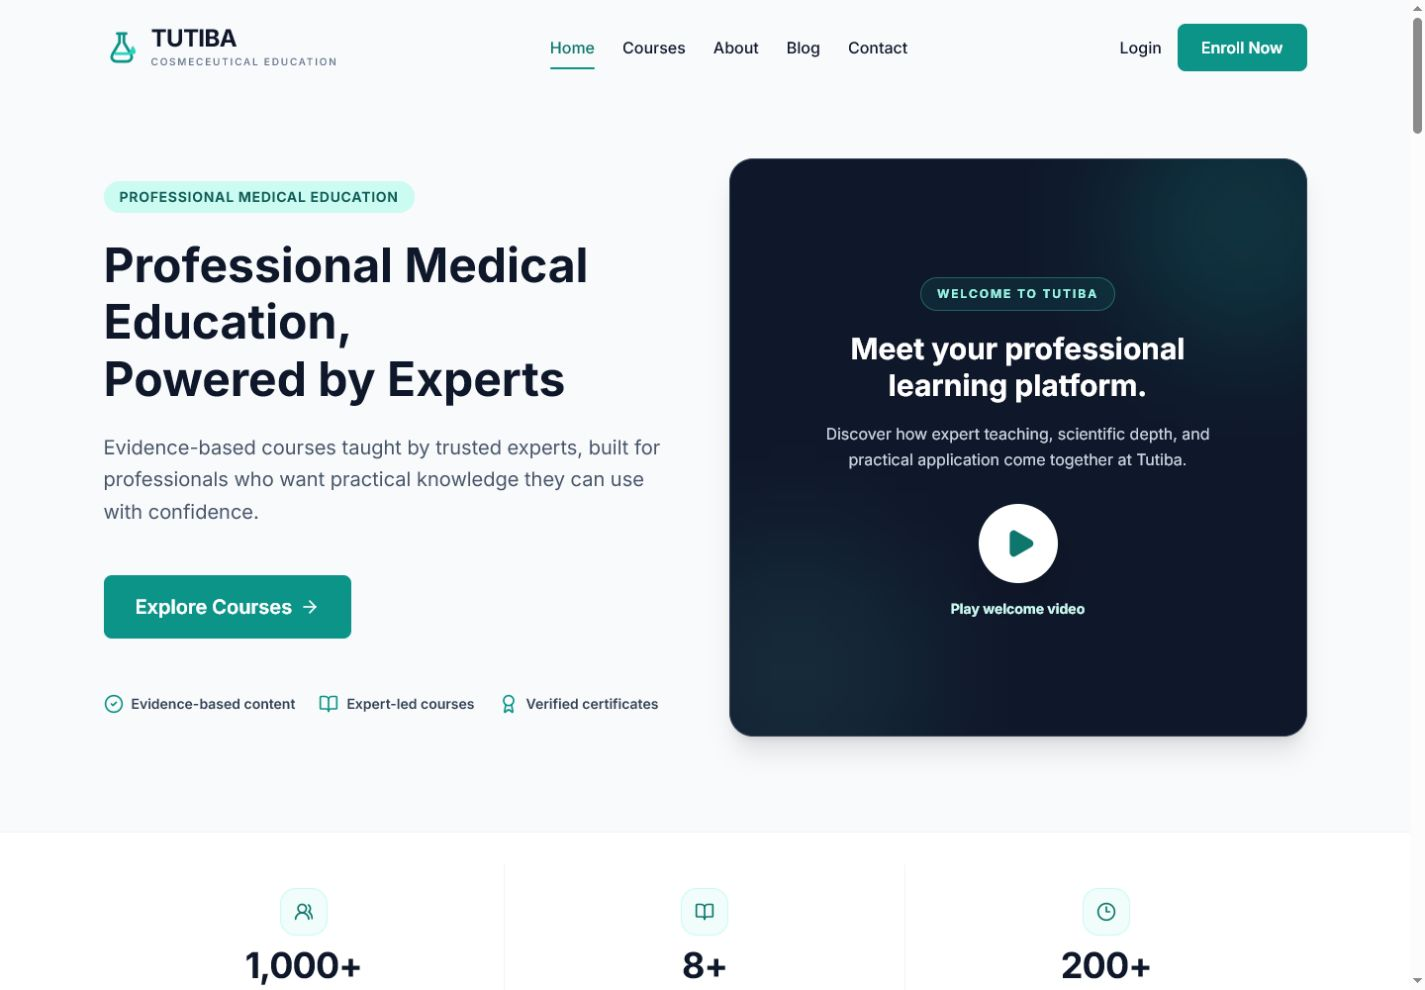
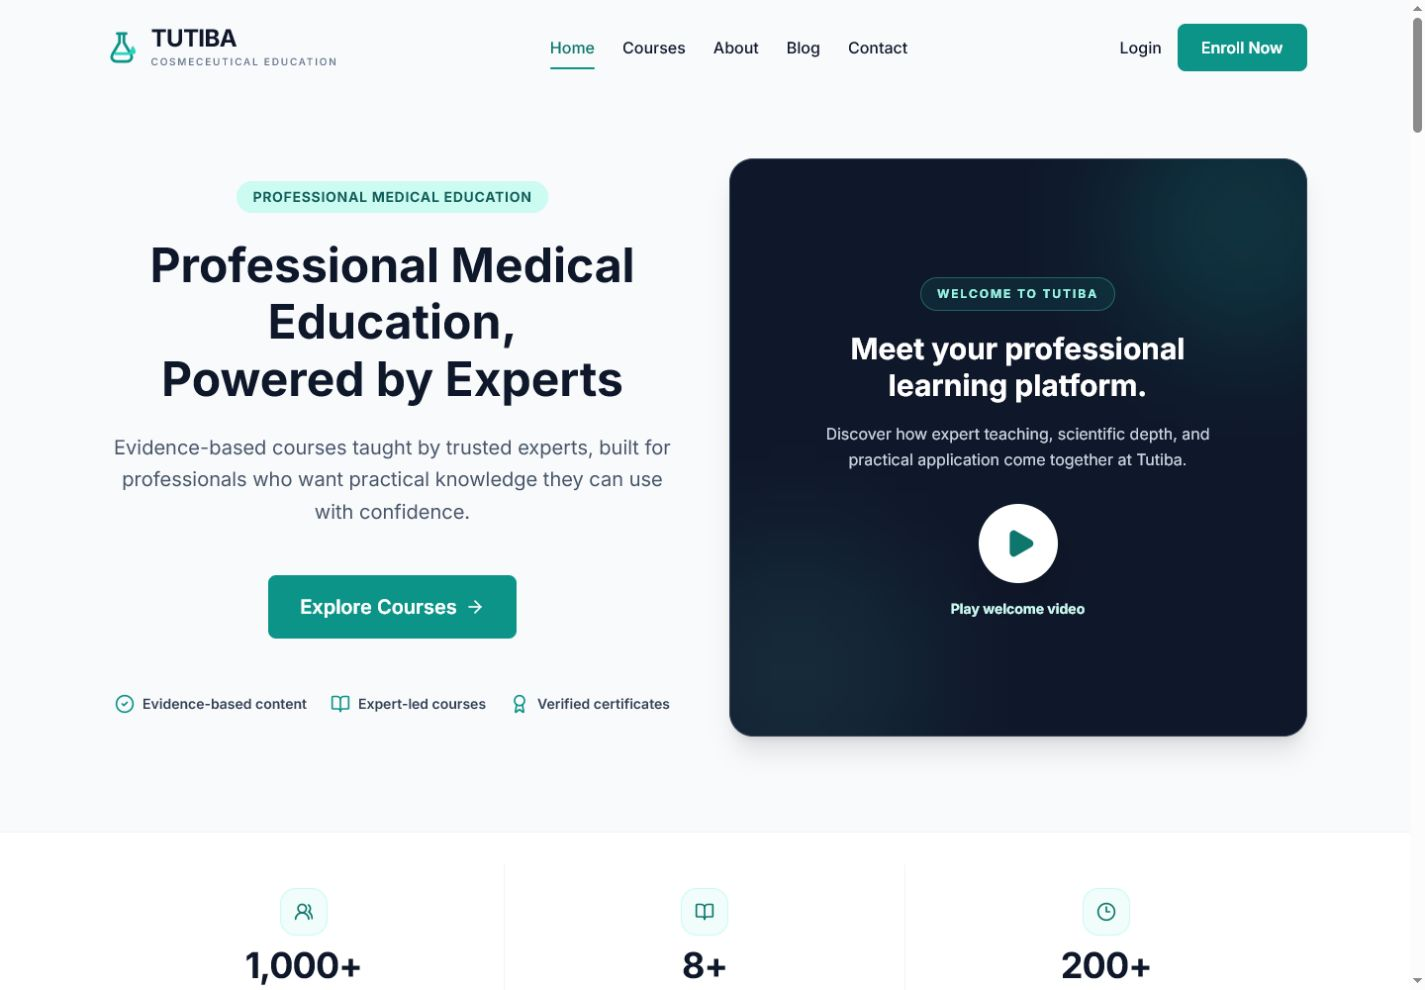
Homepage corrections round 5: full-page alignment audit

diff --git a/src/components/sections/LearningMethod.tsx b/src/components/sections/LearningMethod.tsx
@@ -29,23 +29,23 @@ export function LearningMethod() {
     <section className="bg-white py-16 md:py-24">
       <PageContainer>
         <div className="grid gap-10 lg:grid-cols-12 lg:items-start">
-          <div className="lg:col-span-4">
+          <div className="text-center lg:col-span-4">
             <p className="text-sm font-bold uppercase tracking-eyebrow text-accent-700">Featured curriculum</p>
             <h2 className="mt-3 text-3xl font-bold text-primary-900 md:text-4xl">Inside This Featured Course</h2>
             <p className="mt-5 leading-relaxed text-primary-600">Part 1 moves from skin anatomy into hyaluronic-acid science, ingredient comparison, and product-level application.</p>
-            <Button variant="secondary" className="mt-7 px-6" onClick={() => navigate(PRIMARY_DIPLOMA_PATH)}>
+            <Button variant="secondary" className="mt-7 w-full px-6" onClick={() => navigate(PRIMARY_DIPLOMA_PATH)}>
               {PRIMARY_DIPLOMA_CTA} <ArrowRight className="h-4 w-4" aria-hidden="true" />
             </Button>
           </div>
 
           <div className="grid gap-5 md:grid-cols-3 lg:col-span-8">
             {curriculum.map(({ title, description, icon: Icon }, index) => (
-              <article key={title} className="flex h-full flex-col rounded-xl border border-primary-100 bg-primary-50 p-6 md:p-7">
-                <div className="flex items-center justify-between">
+              <article key={title} className="flex h-full flex-col items-center rounded-xl border border-primary-100 bg-primary-50 p-6 text-center md:p-7">
+                <div className="flex flex-col items-center gap-3">
                   <div className="flex h-11 w-11 items-center justify-center rounded-lg bg-white text-accent-700 shadow-sm"><Icon className="h-5 w-5" /></div>
                   <span className="text-xs font-bold tracking-wider text-primary-400">0{index + 1}</span>
                 </div>
-                <h3 className="mt-6 text-lg font-bold text-primary-900">{title}</h3>
+                <h3 className="mt-5 text-lg font-bold text-primary-900">{title}</h3>
                 <p className="mt-3 text-sm leading-relaxed text-primary-600">{description}</p>
               </article>
             ))}

diff --git a/src/components/sections/InstructorSection.tsx b/src/components/sections/InstructorSection.tsx
@@ -28,7 +28,7 @@ export function InstructorSection() {
           </div>
 
           {/* Instructor Content (7 cols on Desktop) */}
-          <div className="lg:col-span-7 flex flex-col items-start text-left order-1 lg:order-2">
+          <div className="lg:col-span-7 flex flex-col items-center text-center order-1 lg:order-2">
             <span className="inline-block py-1.5 px-4 rounded-full bg-accent-100 text-accent-800 text-sm font-bold mb-6 uppercase tracking-wider">
               Your Instructor
             </span>
@@ -39,22 +39,22 @@ export function InstructorSection() {
               Build your skin, hair, and beauty-nutrition knowledge with an educator who has spent more than a decade translating scientific concepts into practical professional decisions.
             </p>
 
-            <ul className="space-y-4 mb-10 text-primary-800 font-medium">
-              <li className="flex items-center gap-3">
+            <ul className="w-full space-y-4 mb-10 text-primary-800 font-medium">
+              <li className="flex items-center justify-center gap-3 text-center">
                 <CheckCircle2 className="w-6 h-6 text-accent-600 flex-shrink-0" />
                 <span className="text-lg">Skin structure linked directly to cosmeceutical action</span>
               </li>
-              <li className="flex items-center gap-3">
+              <li className="flex items-center justify-center gap-3 text-center">
                 <CheckCircle2 className="w-6 h-6 text-accent-600 flex-shrink-0" />
                 <span className="text-lg">Ingredient and product comparisons you can apply</span>
               </li>
-              <li className="flex items-center gap-3">
+              <li className="flex items-center justify-center gap-3 text-center">
                 <CheckCircle2 className="w-6 h-6 text-accent-600 flex-shrink-0" />
                 <span className="text-lg">Structured diploma stages with visible progress</span>
               </li>
             </ul>
 
-            <Button variant="secondary" className="px-8 text-lg h-12">
+            <Button variant="secondary" className="h-12 w-full px-8 text-lg">
               Meet Your Instructor
             </Button>
           </div>

diff --git a/src/components/sections/Newsletter.tsx b/src/components/sections/Newsletter.tsx
@@ -51,8 +51,8 @@ export function Newsletter() {
     <section dir="ltr" className="py-16 md:py-24 bg-accent-50 border-t border-accent-100">
       <PageContainer>
         <div className="bg-white rounded-3xl p-8 md:p-12 lg:p-16 shadow-sm border border-accent-100 flex flex-col lg:flex-row items-center justify-between gap-12 hover:shadow-md transition-shadow duration-300">
-          <div className="lg:w-1/2 text-center lg:text-left">
-            <div className="w-16 h-16 bg-accent-100 rounded-full flex items-center justify-center mb-6 mx-auto lg:mx-0">
+          <div className="lg:w-1/2 text-center">
+            <div className="w-16 h-16 bg-accent-100 rounded-full flex items-center justify-center mb-6 mx-auto">
               <Mail className="w-8 h-8 text-accent-600" />
             </div>
             <h2 className="text-2xl md:text-3xl font-bold text-primary-900 mb-4">
@@ -68,7 +68,7 @@ export function Newsletter() {
                 <label htmlFor="newsletter-website">Website</label>
                 <input id="newsletter-website" name="website" type="text" tabIndex={-1} autoComplete="off" value={website} onChange={(event) => setWebsite(event.target.value)} />
               </div>
-              <div className="flex flex-col gap-4 sm:flex-row">
+              <div className="flex flex-col gap-4">
                 <div className="flex-grow">
                 <Input
                   id="newsletter-email"
@@ -83,7 +83,7 @@ export function Newsletter() {
                   aria-label="Email Address"
                 />
                 </div>
-                <Button type="submit" variant="primary" isLoading={submissionState === 'submitting'} disabled={submissionState === 'submitting'} className="h-14 px-8 text-lg whitespace-nowrap">
+                <Button type="submit" variant="primary" isLoading={submissionState === 'submitting'} disabled={submissionState === 'submitting'} className="h-14 w-full px-8 text-lg whitespace-nowrap">
                   {submissionState === 'submitting' ? 'Subscribing' : 'Subscribe'}
                 </Button>
               </div>

diff --git a/src/components/sections/FeaturedCourses.tsx b/src/components/sections/FeaturedCourses.tsx
@@ -7,6 +7,7 @@ import { usePricingContext } from '../../contexts/PricingContext';
 import { PageContainer } from '../layout/PageContainer';
 import { useCourseCatalog } from '../../hooks/useCourseCatalog';
 import { mapCourseToCardProps } from '../../lib/courseCard';
+import { formatHomepageCourseCta } from '../../lib/homepageMarketing';
 
 export function FeaturedCourses() {
   const navigate = useNavigate();
@@ -54,12 +55,10 @@ export function FeaturedCourses() {
 
         {/* Courses Grid */}
         <div className={`grid grid-cols-1 gap-8 mb-12 md:grid-cols-2 ${courses.length < 3 ? 'mx-auto max-w-5xl' : 'lg:grid-cols-3'}`}>
-          {courses.map(course => (
-            <CourseCard key={course.id} {...mapCourseToCardProps(course, pricingContext, {
-              ctaText: 'View Course',
-              onEnroll: () => navigate(`/course/${course.id}`),
-            })} />
-          ))}
+          {courses.map(course => {
+            const cardProps = mapCourseToCardProps(course, pricingContext);
+            return <CourseCard key={course.id} {...cardProps} ctaText={formatHomepageCourseCta(course.title, cardProps.price)} fullWidthCta onEnroll={() => navigate(`/course/${course.id}`)} />;
+          })}
         </div>
 
         {/* Bottom CTA */}

diff --git a/src/components/ui/CourseCard.tsx b/src/components/ui/CourseCard.tsx
@@ -18,6 +18,7 @@ export interface CourseCardProps {
   curriculumHighlights?: string[];
   ctaText?: string;
   onEnroll?: () => void;
+  fullWidthCta?: boolean;
 }
 
 export function CourseCard({
@@ -32,7 +33,8 @@ export function CourseCard({
   imageUrl,
   curriculumHighlights = [],
   ctaText = 'View Course',
-  onEnroll
+  onEnroll,
+  fullWidthCta = false,
 }: CourseCardProps) {
   const lessonsLabel = `${lessonsCount} ${lessonsCount === 1 ? 'lesson' : 'lessons'}`;
   return (
@@ -90,11 +92,11 @@ export function CourseCard({
         </div>
 
         {/* Footer (Price & CTA) */}
-        <div className="flex items-center justify-between mt-auto pt-4 border-t border-primary-100">
+        <div className={`mt-auto border-t border-primary-100 pt-4 ${fullWidthCta ? 'flex flex-col gap-3' : 'flex items-center justify-between'}`}>
           <div className="text-xl font-bold text-primary-900">
             {price}
           </div>
-          <Button variant="primary" onClick={onEnroll}>
+          <Button variant="primary" onClick={onEnroll} className={fullWidthCta ? 'w-full' : ''}>
             {ctaText}
           </Button>
         </div>

diff --git a/src/domain/homepageMarketing.test.ts b/src/domain/homepageMarketing.test.ts
@@ -1,6 +1,6 @@
 import assert from 'node:assert/strict';
 import test from 'node:test';
-import { chooseHomepageTestimonials, type HomepageTestimonial } from '../lib/homepageMarketing';
+import { chooseHomepageTestimonials, formatHomepageCourseCta, PRIMARY_DIPLOMA_CTA, type HomepageTestimonial } from '../lib/homepageMarketing';
 
 const platformReview: HomepageTestimonial = {
   review_id: 'platform-review',
@@ -25,4 +25,9 @@ const legacyTestimonial: HomepageTestimonial = {
 test('organic platform reviews always take priority over legacy testimonials', () => {
   assert.deepEqual(chooseHomepageTestimonials([platformReview], [legacyTestimonial]), [platformReview]);
   assert.deepEqual(chooseHomepageTestimonials([], [legacyTestimonial]), [legacyTestimonial]);
+});
+
+test('homepage enrollment calls to action use the real course part and price', () => {
+  assert.equal(PRIMARY_DIPLOMA_CTA, 'Enroll in Part 1 — EGP 300');
+  assert.equal(formatHomepageCourseCta('Skin and Hair Care Diploma Part 2', 'USD 8'), 'Enroll in Part 2 — USD 8');
 });

diff --git a/src/components/sections/StatsBar.tsx b/src/components/sections/StatsBar.tsx
@@ -22,7 +22,7 @@ export function StatsBar() {
             return (
               <div
                 key={stat.id}
-                className={`group flex items-center gap-5 px-4 py-6 text-left sm:flex-col sm:justify-center sm:gap-3 sm:px-6 sm:text-center ${index > 0 ? 'border-t border-primary-100 sm:border-t-0' : ''}`}
+                className={`group flex flex-col items-center justify-center gap-3 px-4 py-6 text-center sm:px-6 ${index > 0 ? 'border-t border-primary-100 sm:border-t-0' : ''}`}
               >
                 <div className="flex h-12 w-12 flex-none items-center justify-center rounded-2xl border border-accent-100 bg-accent-50 transition-colors group-hover:bg-accent-100">
                   <Icon className="h-5 w-5 text-accent-700" />

diff --git a/src/lib/courseCard.ts b/src/lib/courseCard.ts
@@ -12,7 +12,7 @@ export function resolveCourseImageUrl(course: Pick<CourseCatalogItem, 'thumbnail
 export function mapCourseToCardProps(
   course: CourseCatalogItem,
   pricingContext: PricingContext,
-  overrides: Pick<CourseCardProps, 'ctaText' | 'onEnroll'> = {},
+  overrides: Pick<CourseCardProps, 'ctaText' | 'onEnroll' | 'fullWidthCta'> = {},
 ): CourseCardProps {
   return {
     title: course.title,
@@ -27,5 +27,6 @@ export function mapCourseToCardProps(
     curriculumHighlights: course.curriculumHighlights,
     ctaText: overrides.ctaText,
     onEnroll: overrides.onEnroll,
+    fullWidthCta: overrides.fullWidthCta,
   };
 }

diff --git a/src/lib/homepageMarketing.ts b/src/lib/homepageMarketing.ts
@@ -12,7 +12,12 @@ export interface HomepagePreviewLesson {
 }
 
 export const PRIMARY_DIPLOMA_PATH = '/course/e2b9b9dd-693c-48d4-a3e9-8c1b2cfe80d0';
-export const PRIMARY_DIPLOMA_CTA = 'Start Part 1 — EGP 300';
+export const PRIMARY_DIPLOMA_CTA = 'Enroll in Part 1 — EGP 300';
+
+export function formatHomepageCourseCta(courseTitle: string, price: string) {
+  const partName = courseTitle.match(/\bPart\s+\d+\b/i)?.[0] || courseTitle;
+  return `Enroll in ${partName} — ${price}`;
+}
 
 export interface HomepageTestimonial {
   review_id: string;
